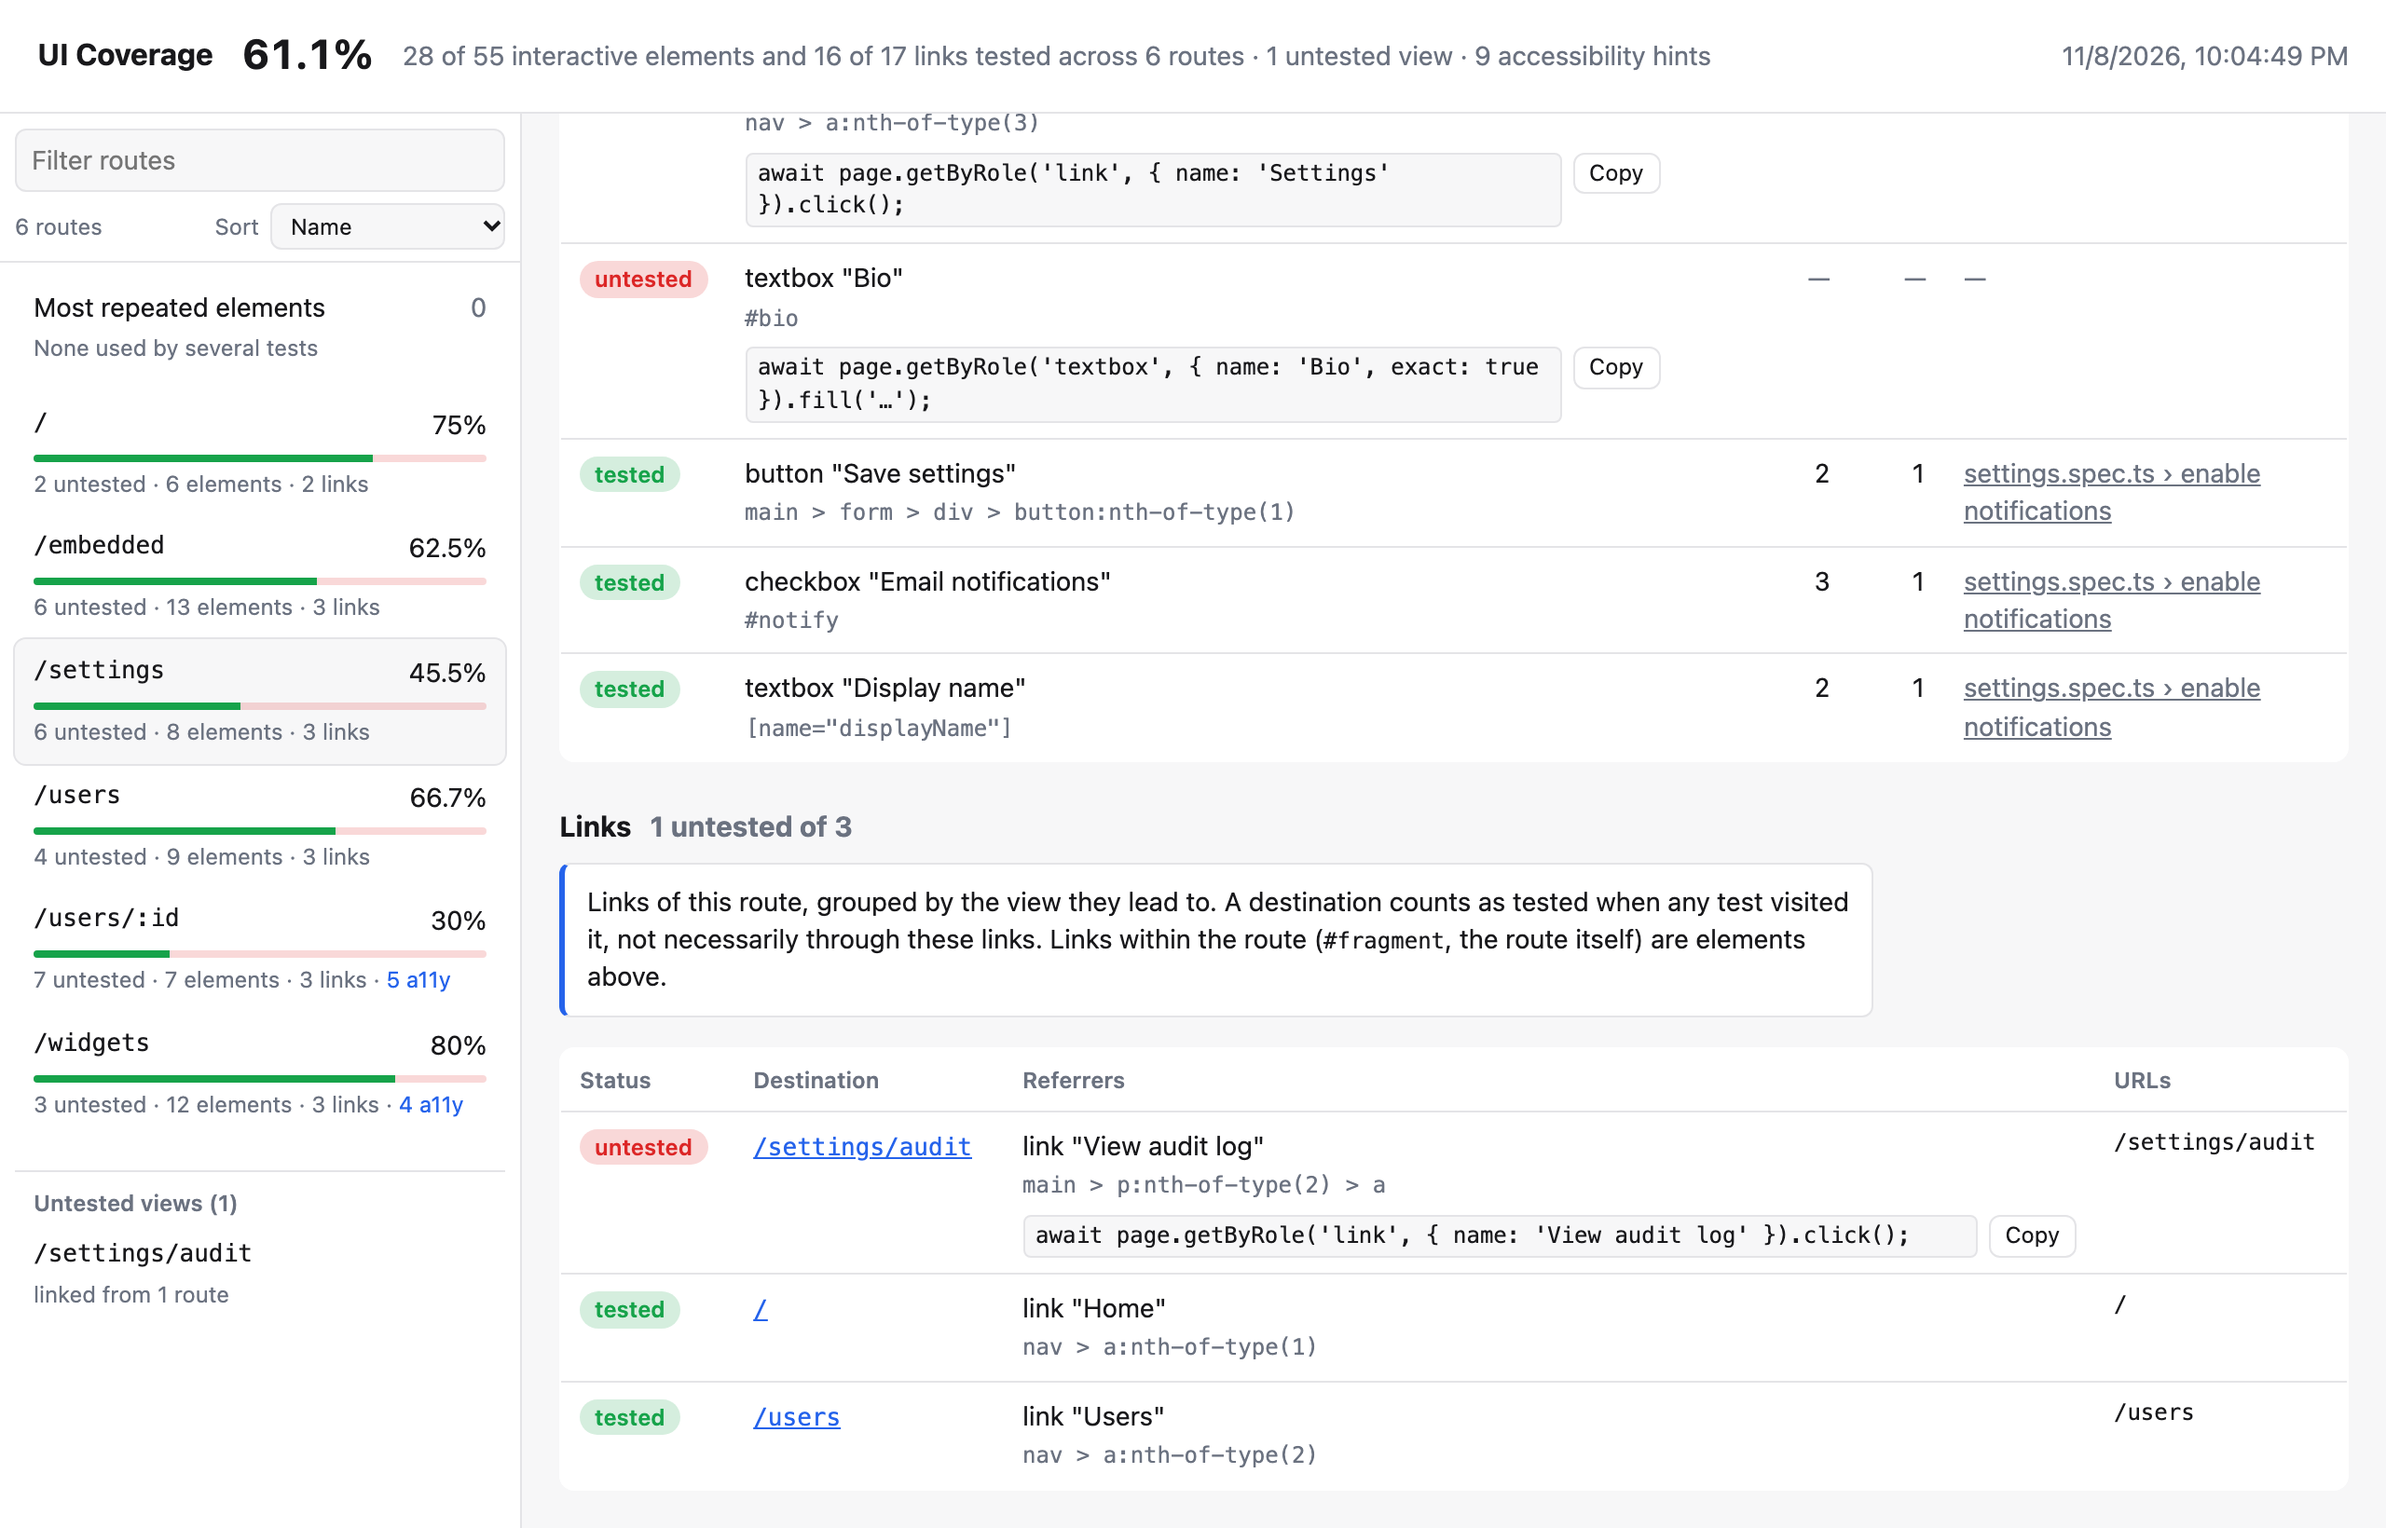
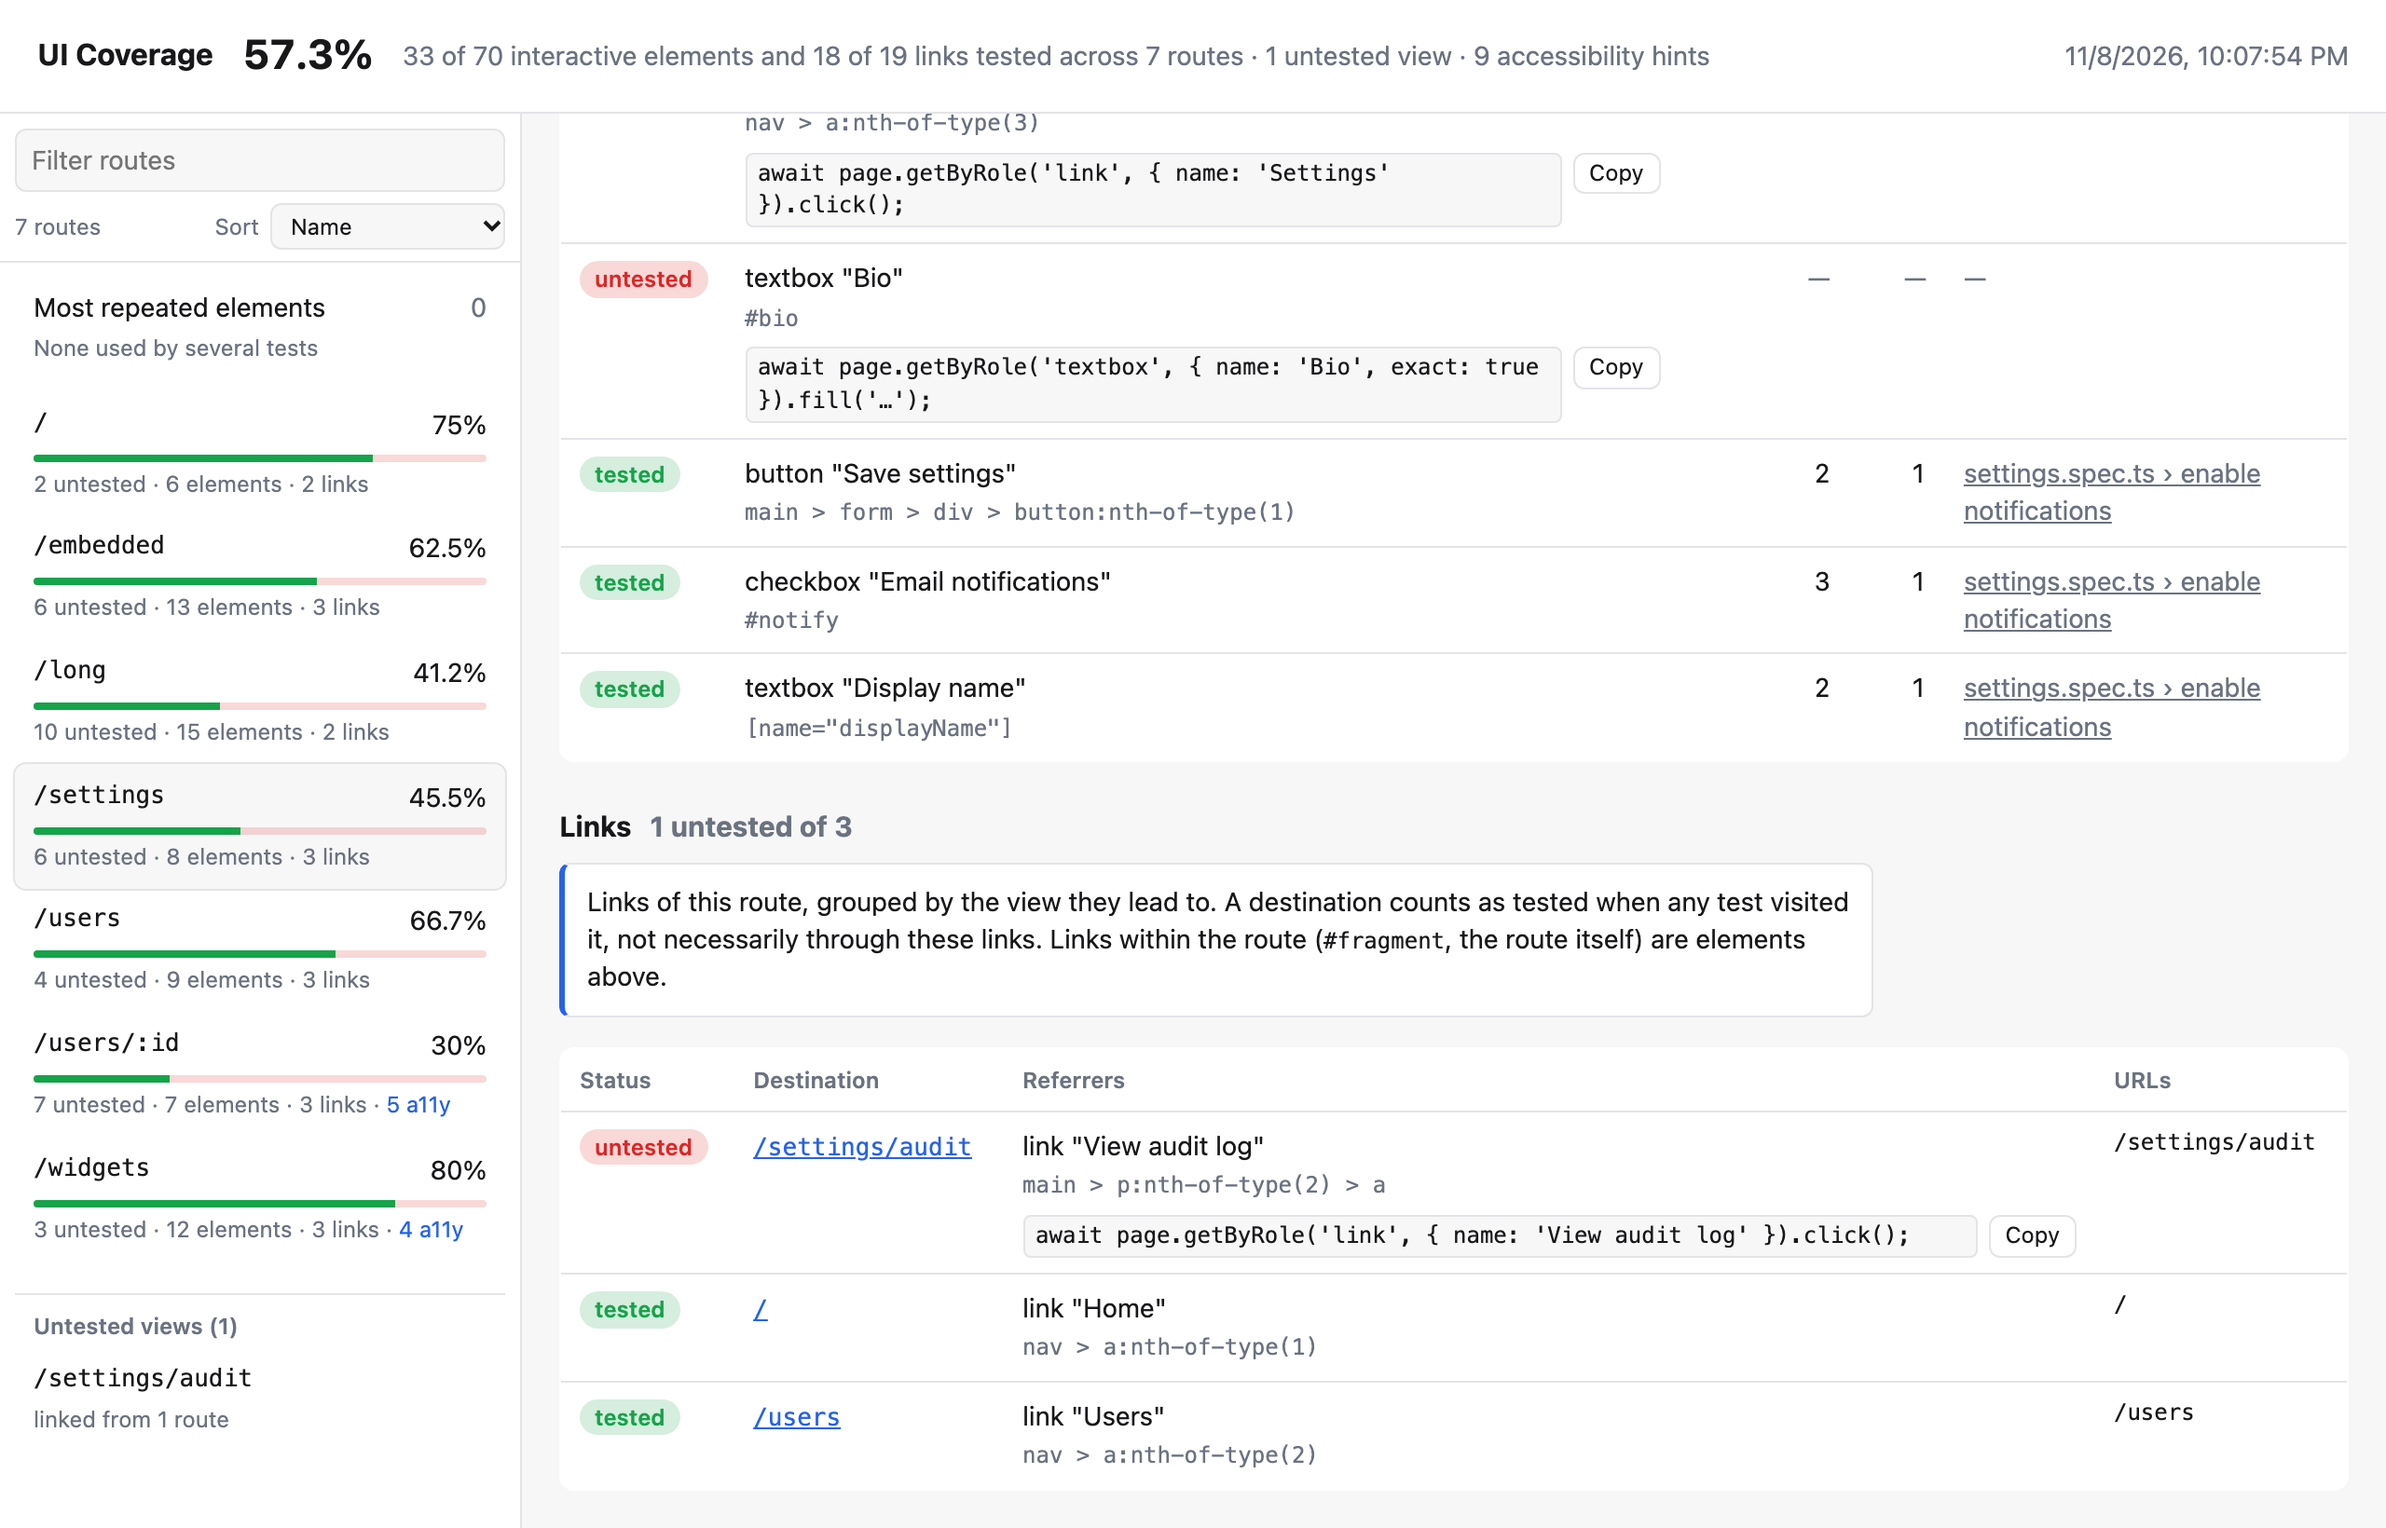
Update demo numbers after rebase on main (adds /long)

diff --git a/README.md b/README.md
@@ -80,9 +80,10 @@ Either way, recording covers every page and popup in the test's browser context.
 **3. Run your tests** and open `ui-coverage-report/index.html`.
 
 ```
-UI coverage: 61.1% (44/72: 28/55 elements, 16/17 links)
+UI coverage: 57.3% (51/89: 33/70 elements, 18/19 links)
   /              75%  6/8
   /embedded    62.5%  10/16
+  /long        41.2%  7/17
   /settings    45.5%  5/11
   /users       66.7%  8/12
   /users/:id     30%  3/10
@@ -91,7 +92,7 @@ UI coverage: 61.1% (44/72: 28/55 elements, 16/17 links)
   9 accessibility hint(s), informational (see the report)
 ```
 
-Coverage counts **units**: interactive elements plus [links](#links-and-untested-views), grouped by the view they lead to. In the demo, every view but `/settings/audit` is visited by some test, so 16 of the 17 link units are tested; the "View audit log" link on `/settings` is the untested one, and `/settings/audit` is listed as an untested view.
+Coverage counts **units**: interactive elements plus [links](#links-and-untested-views), grouped by the view they lead to. In the demo, every view but `/settings/audit` is visited by some test, so 18 of the 19 link units are tested; the "View audit log" link on `/settings` is the untested one, and `/settings/audit` is listed as an untested view.
 
 ## How it works
 
@@ -615,9 +616,9 @@ Next to `index.html`, the report folder has `coverage.json`: a versioned, machin
   "generatedAt": "2026-01-01T12:00:00.000Z",
   "generator": { "name": "playwright-ui-coverage", "version": "0.1.0" },
   "summary": {
-    "viewCount": 6, "untestedViewCount": 1, "coverage": 61.1,
-    "testedElementsCount": 28, "untestedElementsCount": 27,
-    "testedLinksCount": 16, "untestedLinksCount": 1,
+    "viewCount": 7, "untestedViewCount": 1, "coverage": 57.3,
+    "testedElementsCount": 33, "untestedElementsCount": 37,
+    "testedLinksCount": 18, "untestedLinksCount": 1,
     "failingOnlyElementsCount": 0, "a11yHintsCount": 9
   },
   "views": [
@@ -659,16 +660,16 @@ The markdown is meant for a sticky PR comment: it starts with `<!-- playwright-u
 
 ```md
 <!-- playwright-ui-coverage -->
-### UI coverage: 59.7% (-1.4 pp)
+### UI coverage: 56.2% (-1.1 pp)
 
 | | Coverage | Tested | Views |
 |---|---:|---:|---:|
-| Base | 61.1% | 44/72 | 6 |
-| Head | **59.7%** | 43/72 | 6 |
+| Base | 57.3% | 51/89 | 7 |
+| Head | **56.2%** | 50/89 | 7 |
 
 **1 new untested element** · 0 resolved
 
-**Views changed (1), 5 unchanged**
+**Views changed (1), 6 unchanged**
 
 | View | Base | Head | Δ | New gaps | Resolved |
 |---|---:|---:|---:|---:|---:|
